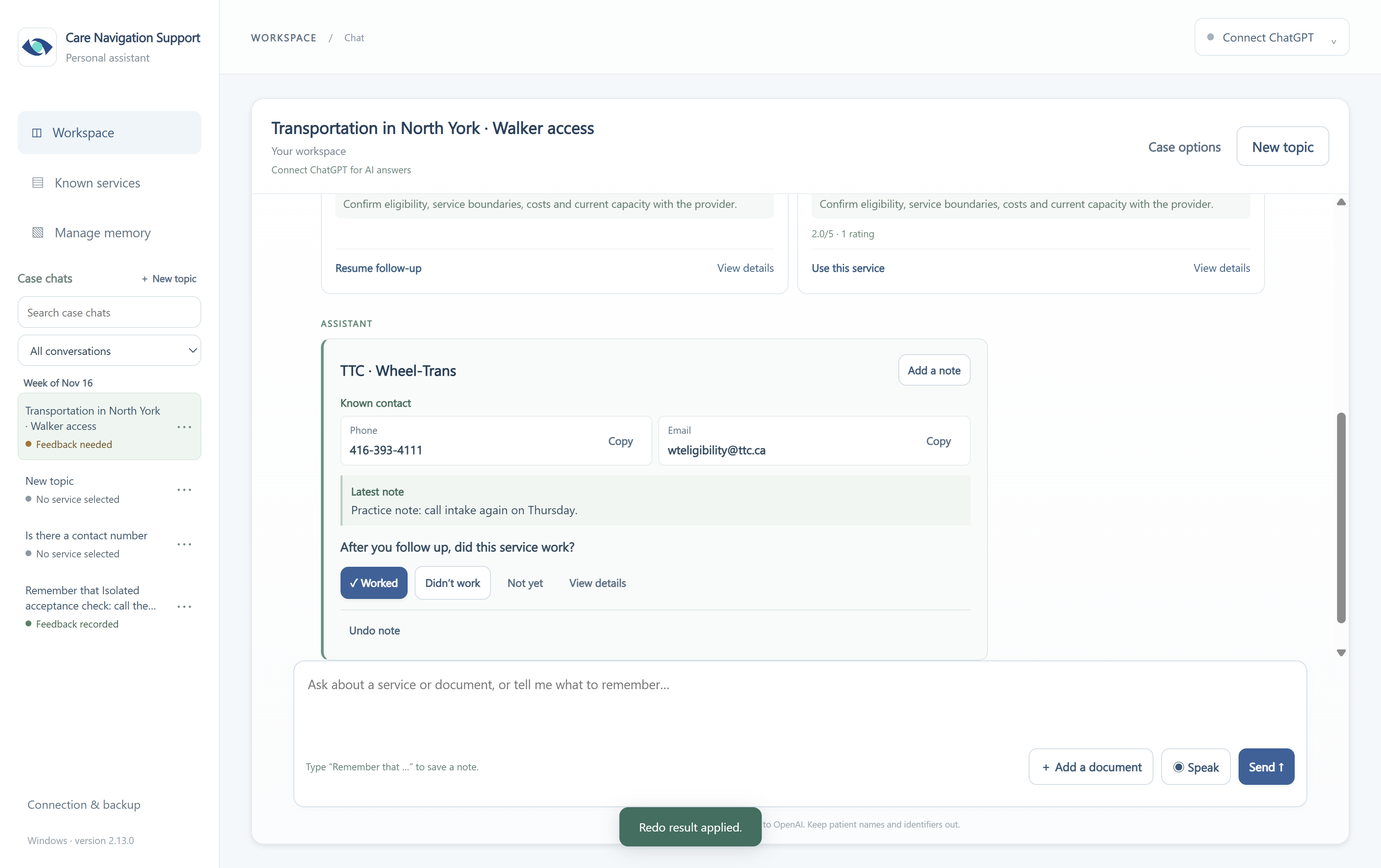
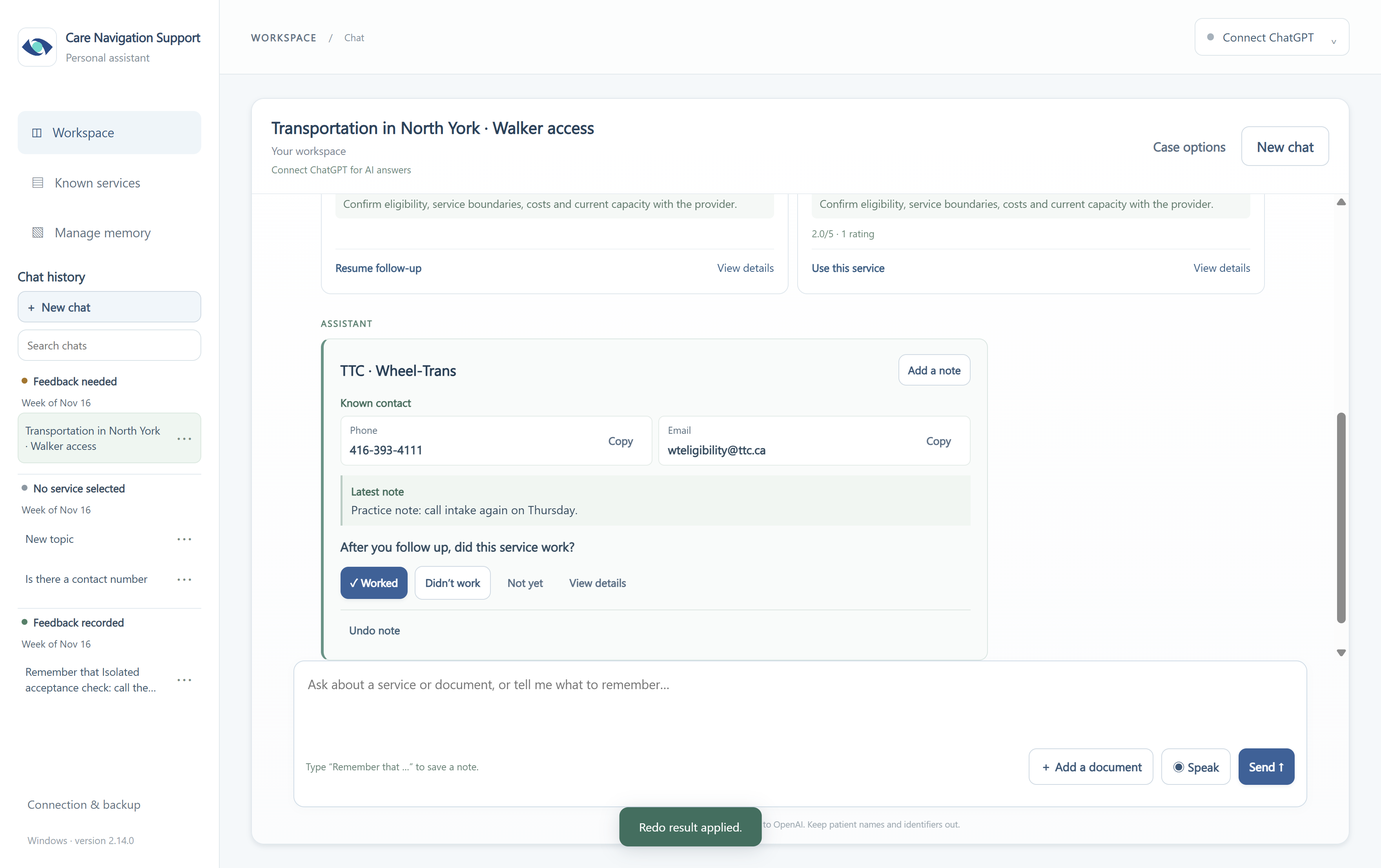
Group chat history and make completion a separate reply

Changed region(s): [[0.0, 0.3118, 0.125, 0.8107], [0.8438, 0.1559, 0.9688, 0.1871], [0.0938, 0.3118, 0.125, 0.343]]

diff --git a/ui/documents.css b/ui/documents.css
@@ -21,7 +21,7 @@
 .service-history{margin-top:0;padding-top:0;border-top:0}.history-help{font-size:11px;color:#789285;margin:8px 0 14px}.saved-status{color:#33785f;font-size:11px;margin:8px 0}.saved-status:empty{display:none}.experience-summary{display:flex;gap:7px 14px;flex-wrap:wrap;font-size:11px;color:#3d715e;margin:8px 0 12px}.experience-summary span{background:#eef7f2;border:1px solid #dcebe2;border-radius:6px;padding:5px 9px}.service-experience-preview{border-left:2px solid #9bbfae;padding:0 10px;margin-bottom:12px;color:#607d70;max-width:850px}.service-experience-preview .experience-summary{margin:0 0 5px;font-size:10px}.service-experience-preview small{display:block;font-size:11px;line-height:1.5;overflow-wrap:anywhere}.result-badge{display:inline-block;border:1px solid #cfe5d8;background:#ebf6ef;color:#31694c;font-size:11px;font-weight:650;border-radius:5px;padding:4px 8px;margin-bottom:6px}.result-badge.not_worked{border-color:#efd6d2;background:#fbf0ee;color:#9a4d42}.service-result-prompt{display:flex;align-items:center;justify-content:space-between;gap:14px;flex-wrap:wrap;background:#f3f8fc;border:1px solid #dce8ef;border-radius:9px;padding:14px;margin-top:14px}.service-result-prompt strong{font-size:13px}.service-result-prompt p{font-size:11px;color:#6c8596;margin-top:5px}.result-buttons,.result-editor-actions{display:flex;gap:8px;flex-wrap:wrap}.result-choice{font-size:11px;padding:8px 12px}#service-result-editor{border:1px solid #b9d6cb;border-radius:10px;background:#f7fbf9;padding:18px;margin-top:15px}#service-result-editor[hidden]{display:none}.result-editor-heading{margin-bottom:15px}.result-editor-heading h3{margin-bottom:5px}.result-editor-heading small{font-size:11px;color:#6c8577}.result-outcomes{border:0;padding:0;margin:0 0 18px;display:flex;flex-wrap:wrap;gap:8px}.result-outcomes legend{font-size:12px;font-weight:600;margin-bottom:9px}.result-outcomes button[aria-pressed=true]{background:#e1f1e8;border-color:#639c85;color:#245f49;box-shadow:inset 0 0 0 1px #639c85}.result-outcomes button[data-outcome=not_worked][aria-pressed=true]{background:#faeae7;border-color:#b97c73;color:#85443a;box-shadow:inset 0 0 0 1px #b97c73}.detail-body #result-note{min-height:80px}.context-main{display:flex;align-items:center;justify-content:space-between;gap:10px;width:100%}.context-chip.service-context{display:block}.context-actions{display:flex;align-items:center;gap:7px;flex-wrap:wrap;margin-top:9px}.context-actions>span{font-size:10px}.context-actions .result-choice{font-size:10px;padding:6px 9px}.floating-chat .context-actions{gap:5px;margin-top:7px}.floating-chat .context-actions>span{font-size:9px}.service-history,#service-contacts,#service-result-editor{scroll-margin-top:95px}#card-fields{margin-top:24px}#service-contacts:focus{outline:2px solid #b7d7c8;outline-offset:5px}.card-dialog .modal-footer{z-index:1}.memory-record .result-badge{margin-top:8px}
 
 /* Compact choices, private case chats, and saved-input correction controls. */
-.sidebar{min-height:0}.sidebar>.input-tools{margin:8px 0 0;padding:4px 0}.input-tools{display:flex;align-items:center;gap:5px;margin:7px 0 10px}.input-tools button{font-size:11px;padding:6px 9px}.input-tools button:disabled{opacity:.38;cursor:default}.case-sidebar{display:flex;flex-direction:column;flex:1;min-height:110px;margin:13px 0}.case-sidebar-heading{display:flex;align-items:center;justify-content:space-between;gap:3px;margin-bottom:7px}.case-sidebar h2{font-size:12px;color:#6b877c;font-weight:650}.case-sidebar-heading button{font-size:10px;padding:5px}.case-sidebar>input{font-size:11px;padding:8px 9px;min-height:32px;margin-bottom:7px}.case-list{min-height:0;overflow:auto;flex:1;scrollbar-width:thin}.case-item{display:flex;align-items:center;border-radius:7px;gap:3px;margin-bottom:3px;border:1px solid transparent}.case-item.active{background:#edf6f1;border-color:#d6e9df}.case-item>button:first-child{background:transparent;border:0;min-width:0;flex:1;text-align:left;padding:9px 7px;color:#355970}.case-item strong{font-size:11px;line-height:1.45;font-weight:550;display:-webkit-box;-webkit-line-clamp:2;-webkit-box-orient:vertical;overflow:hidden;overflow-wrap:anywhere}.case-item small{display:block;font-size:9px;color:#879a94;margin-top:4px}.case-more{flex:none;font-size:17px;padding:6px;background:transparent;border:0;color:#718b80}.case-empty{font-size:11px;color:#8a9d94;padding:8px}.case-options p{font-size:12px;line-height:1.65;color:#718b9c;margin-bottom:13px}.case-options-dialog{max-width:610px}.case-archived-banner{display:flex;align-items:center;justify-content:space-between;gap:10px;margin:0 18px 16px;padding:12px;border:1px solid #d7e5ee;border-radius:8px;background:#f4f9fc;font-size:12px}.case-archived-banner[hidden]{display:none}.chat-panel .panel-heading>div:first-child{min-width:0}.chat-panel #assistant-title{overflow-wrap:anywhere}.chat-header-actions{flex-wrap:wrap;justify-content:flex-end}.floating-chat .panel-heading{flex-wrap:wrap;gap:5px}.floating-chat #assistant-title{font-size:14px;display:-webkit-box;-webkit-line-clamp:2;-webkit-box-orient:vertical;overflow:hidden}.floating-chat .chat-header-actions button{font-size:10px;padding:5px 7px}.answer-cards{grid-template-columns:repeat(2,minmax(0,1fr));align-items:stretch;gap:9px}.answer-cards .answer-card{display:flex;flex-direction:column;align-items:stretch;justify-content:flex-start;gap:6px;margin:0;padding:12px!important;min-width:0;min-height:112px;overflow:hidden;text-align:left}.answer-card .card-kicker{font-size:9px;margin:0;white-space:nowrap;overflow:hidden;text-overflow:ellipsis}.answer-card strong{display:-webkit-box;-webkit-line-clamp:2;-webkit-box-orient:vertical;overflow:hidden;line-height:1.4;font-size:13px;margin:0}.answer-card .card-excerpt{display:-webkit-box;-webkit-line-clamp:1;-webkit-box-orient:vertical;overflow:hidden;font-size:11px;margin:0;color:#8296a3}.answer-card-bottom{display:flex;flex-direction:column;gap:4px;font-size:11px;color:#397a65;margin-top:auto;overflow-wrap:anywhere}.answer-card-bottom small{font-size:10px;color:#688d7c}.response-toggle{font-size:11px;padding:6px 2px}.earlier-messages{display:block;margin:0 auto 12px;font-size:11px}.floating-chat .answer-cards{gap:6px}.floating-chat .answer-cards .answer-card{padding:9px!important;min-height:118px}.floating-chat .answer-card strong{font-size:11px}.floating-chat .answer-card-bottom{font-size:10px}.floating-chat .answer-card .card-excerpt{font-size:10px}.memory-record-main p{display:-webkit-box;-webkit-line-clamp:3;-webkit-box-orient:vertical;overflow:hidden}
+.sidebar{min-height:0}.sidebar>.input-tools{margin:8px 0 0;padding:4px 0}.input-tools{display:flex;align-items:center;gap:5px;margin:7px 0 10px}.input-tools button{font-size:11px;padding:6px 9px}.input-tools button:disabled{opacity:.38;cursor:default}.case-item{display:flex;align-items:center;border-radius:7px;gap:3px;margin-bottom:3px;border:1px solid transparent}.case-item.active{background:#edf6f1;border-color:#d6e9df}.case-item>button:first-child{background:transparent;border:0;min-width:0;flex:1;text-align:left;padding:9px 7px;color:#355970}.case-item strong{font-size:11px;line-height:1.45;font-weight:550;display:-webkit-box;-webkit-line-clamp:2;-webkit-box-orient:vertical;overflow:hidden;overflow-wrap:anywhere}.case-more{flex:none;font-size:17px;padding:6px;background:transparent;border:0;color:#718b80}.case-empty{font-size:11px;color:#8a9d94;padding:8px}.case-options p{font-size:12px;line-height:1.65;color:#718b9c;margin-bottom:13px}.case-options-dialog{max-width:610px}.case-archived-banner{display:flex;align-items:center;justify-content:space-between;gap:10px;margin:0 18px 16px;padding:12px;border:1px solid #d7e5ee;border-radius:8px;background:#f4f9fc;font-size:12px}.case-archived-banner[hidden]{display:none}.chat-panel .panel-heading>div:first-child{min-width:0}.chat-panel #assistant-title{overflow-wrap:anywhere}.chat-header-actions{flex-wrap:wrap;justify-content:flex-end}.floating-chat .panel-heading{flex-wrap:wrap;gap:5px}.floating-chat #assistant-title{font-size:14px;display:-webkit-box;-webkit-line-clamp:2;-webkit-box-orient:vertical;overflow:hidden}.floating-chat .chat-header-actions button{font-size:10px;padding:5px 7px}.answer-cards{grid-template-columns:repeat(2,minmax(0,1fr));align-items:stretch;gap:9px}.answer-cards .answer-card{display:flex;flex-direction:column;align-items:stretch;justify-content:flex-start;gap:6px;margin:0;padding:12px!important;min-width:0;min-height:112px;overflow:hidden;text-align:left}.answer-card .card-kicker{font-size:9px;margin:0;white-space:nowrap;overflow:hidden;text-overflow:ellipsis}.answer-card strong{display:-webkit-box;-webkit-line-clamp:2;-webkit-box-orient:vertical;overflow:hidden;line-height:1.4;font-size:13px;margin:0}.answer-card .card-excerpt{display:-webkit-box;-webkit-line-clamp:1;-webkit-box-orient:vertical;overflow:hidden;font-size:11px;margin:0;color:#8296a3}.answer-card-bottom{display:flex;flex-direction:column;gap:4px;font-size:11px;color:#397a65;margin-top:auto;overflow-wrap:anywhere}.answer-card-bottom small{font-size:10px;color:#688d7c}.response-toggle{font-size:11px;padding:6px 2px}.earlier-messages{display:block;margin:0 auto 12px;font-size:11px}.floating-chat .answer-cards{gap:6px}.floating-chat .answer-cards .answer-card{padding:9px!important;min-height:118px}.floating-chat .answer-card strong{font-size:11px}.floating-chat .answer-card-bottom{font-size:10px}.floating-chat .answer-card .card-excerpt{font-size:10px}.memory-record-main p{display:-webkit-box;-webkit-line-clamp:3;-webkit-box-orient:vertical;overflow:hidden}
 
 /* Recommendations are complete cards, with their checks kept beside the provider. */
 .answer-cards{margin-top:0;grid-template-columns:repeat(2,minmax(0,1fr))}.answer-cards .answer-card{gap:7px;padding:14px!important}.answer-card .card-reason,.answer-card .card-confirm{font-size:11px;line-height:1.5;color:#476879;overflow-wrap:anywhere}.answer-card .card-reason b,.answer-card .card-confirm b{display:block;font-size:9px;letter-spacing:.2px;font-weight:650;color:#568071;margin-bottom:2px}.answer-card .card-confirm{background:#f4f8f6;border-radius:5px;padding:7px 8px;color:#587b6c}.answer-card-open{font-size:10px;color:#3c6e93;border-top:1px solid #edf2f4;padding-top:6px;margin-top:2px}.answer-summary{border:1px solid #dce7ee;border-radius:10px;padding:14px 16px;background:#fff;color:#34566d}.answer-summary+.answer-cards{margin-top:10px}.answer-error{background:#fff8f6;border-color:#ecd8d2}.answer-pending{color:#638577;background:#f6faf8;font-size:12px}.calculation-proof{border:1px solid #dce9e2;border-radius:8px}.floating-chat .answer-card .card-reason,.floating-chat .answer-card .card-confirm{font-size:10px}.floating-chat .answer-cards .answer-card{padding:10px!important}@media(min-width:1320px){.workspace-view .chat-panel:not(.floating-chat) .answer-cards{grid-template-columns:repeat(3,minmax(0,1fr))}}
@@ -151,26 +151,41 @@
 .floating-chat .followup-fields { grid-template-columns: minmax(0, 1fr); }
 .floating-chat .chat-followup { padding: 10px 11px; }
 
-.case-sidebar > select {
-  width: 100%;
+.case-sidebar {
+  display: flex;
+  flex: 1;
+  flex-direction: column;
+  min-height: 125px;
+  gap: 7px;
+  margin: 14px 0 10px;
+}
+.case-sidebar h2 { margin: 0; color: #284d65; font-size: 13px; font-weight: 700; }
+.case-sidebar .case-new {
   min-height: 32px;
-  margin-bottom: 8px;
-  padding: 6px 8px;
-  font-size: 11px;
+  padding: 6px 9px;
+  text-align: left;
+  font-size: 12px;
+  background: #eff6fa;
 }
-.case-week h3 {
-  margin: 9px 6px 4px;
-  font-size: 10px;
-  font-weight: 650;
-  color: #526a77;
-}
-.case-week:first-child h3 { margin-top: 2px; }
-.case-item small {
+.case-new span { margin-right: 3px; }
+.case-sidebar > input { min-height: 32px; padding: 7px 9px; font-size: 11px; }
+.case-list { flex: 1; min-height: 0; overflow: auto; scrollbar-width: thin; }
+.case-group { padding: 6px 0 2px; }
+.case-group + .case-group { border-top: 1px solid #e1eaf0; margin-top: 6px; }
+.case-group h3 {
   display: flex;
   align-items: center;
-  gap: 5px;
-  color: #526a77;
+  gap: 6px;
+  margin: 0 4px 5px;
+  color: #314f65;
+  font-size: 11px;
+  font-weight: 700;
+}
+.case-week h4 {
+  margin: 8px 4px 4px;
   font-size: 10px;
+  font-weight: 550;
+  color: #526a77;
 }
 .case-status-dot {
   width: 6px;
@@ -179,10 +194,8 @@
   background: #8899a3;
   border-radius: 50%;
 }
-.case-item[data-feedback="needed"] small { color: #7a4f17; }
-.case-item[data-feedback="needed"] .case-status-dot { background: #af731f; }
-.case-item[data-feedback="recorded"] small { color: #356450; }
-.case-item[data-feedback="recorded"] .case-status-dot { background: #438267; }
+.case-group[data-feedback="needed"] .case-status-dot { background: #af731f; }
+.case-group[data-feedback="recorded"] .case-status-dot { background: #438267; }
 .case-more {
   min-width: 28px;
   margin-right: 2px;
@@ -230,17 +243,16 @@
 #card-history .input-tools:not(:has(button:not([hidden]))) { display: none; }
 .latest-messages { display: block; margin: 10px auto 0; font-size: 11px; }
 .case-next-steps {
-  margin-top: 10px;
   padding: 12px;
-  border: 1px solid #d9e6ec;
+  border: 1px solid #cddfe9;
   border-radius: 10px;
-  background: #f5f9fb;
+  background: #f2f7fa;
 }
-.case-next-steps h4 { margin: 0 0 10px; color: #243f55; font-size: 14px; }
+.case-next-steps h3 { margin: 0 0 10px; color: #243f55; font-size: 14px; }
 .case-next-actions { display: grid; grid-template-columns: repeat(3,minmax(0,1fr)); gap: 7px; }
 .case-next-actions button { text-align: left; padding: 8px 9px; font-size: 11px; overflow-wrap: anywhere; }
 .case-next-actions small { display: block; margin-top: 4px; font-size: 10px; font-weight: 400; line-height: 1.4; }
-.completion-summary { display: flex; gap: 8px; flex-wrap: wrap; align-items: center; }
+.completion-summary { display: flex; gap: 5px 8px; flex-wrap: wrap; align-items: center; font-size: 11px; margin-bottom: 9px; }
 .floating-chat .case-next-actions { grid-template-columns: minmax(0,1fr); }
 @media (max-width: 1050px) {
   .case-next-actions { grid-template-columns: minmax(0,1fr); }

diff --git a/README.md b/README.md
@@ -2,24 +2,24 @@
 
 A Windows prototype that helps navigators turn spreadsheets and documents into searchable **memory cards**, ask questions in everyday language, and keep useful notes for future conversations.
 
-**Status:** version 2.13.0 prototype. The Windows document readers and saved-card workflow have been tested. The installer is unsigned; real recipient ChatGPT access and Southlake deployment approval remain checks before routine field use.
+**Status:** version 2.14.0 prototype. The Windows document readers and saved-card workflow have been tested. The installer is unsigned; real recipient ChatGPT access and Southlake deployment approval remain checks before routine field use.
 
-The app, Windows shortcut and installer are named **Care Navigation Support**. Close the previous version before running the update. Version 2.13 uses the same Windows install and data locations.
+The app, Windows shortcut and installer are named **Care Navigation Support**. Close the previous version before running the update. Version 2.14 uses the same Windows install and data locations.
 
 ## Download and start
 
-### [Download the complete handoff package](https://github.com/victor221218/southlake-care-navigation-support/releases/download/v2.13.0/Care-Navigation-Support-Handoff-2.13.0.zip)
+### [Download the complete handoff package](https://github.com/victor221218/southlake-care-navigation-support/releases/download/v2.14.0/Care-Navigation-Support-Handoff-2.14.0.zip)
 
 Everything needed to review the prototype in one download: the Windows installer, editable source files, user and developer guides, and the verification report.
 
 | What you need | Open this |
 | --- | --- |
-| **Install and try the app** | [Windows installer](https://github.com/victor221218/southlake-care-navigation-support/releases/download/v2.13.0/Care-Navigation-Support-Setup-2.13.0.exe) |
-| **Quick-start guide** | [Download the quick-start guide](https://github.com/victor221218/southlake-care-navigation-support/releases/download/v2.13.0/Windows-Quick-Start.html) or [read the full guide here](START-HERE.md) |
-| **Download all deliverables** | [Complete handoff ZIP](https://github.com/victor221218/southlake-care-navigation-support/releases/download/v2.13.0/Care-Navigation-Support-Handoff-2.13.0.zip) |
+| **Install and try the app** | [Windows installer](https://github.com/victor221218/southlake-care-navigation-support/releases/download/v2.14.0/Care-Navigation-Support-Setup-2.14.0.exe) |
+| **Quick-start guide** | [Download the quick-start guide](https://github.com/victor221218/southlake-care-navigation-support/releases/download/v2.14.0/Windows-Quick-Start.html) or [read the full guide here](START-HERE.md) |
+| **Download all deliverables** | [Complete handoff ZIP](https://github.com/victor221218/southlake-care-navigation-support/releases/download/v2.14.0/Care-Navigation-Support-Handoff-2.14.0.zip) |
 | **Read or edit the code** | Browse the folders above; [start with the source map below](#source-code-map) |
 | **Build or maintain the app** | [Windows development instructions](WINDOWS-DEVELOPMENT.md) |
-| **Review test evidence and remaining checks** | [Release page and verification files](https://github.com/victor221218/southlake-care-navigation-support/releases/tag/v2.13.0) |
+| **Review test evidence and remaining checks** | [Release page and verification files](https://github.com/victor221218/southlake-care-navigation-support/releases/tag/v2.14.0) |
 
 The public release can be downloaded without a GitHub account. Opening the installer is different from downloading source code: Use the installer to run the app or the source files for development.
 
@@ -35,7 +35,7 @@ The current deliverable is a Windows app. To connect it to ChatGPT, open the app
 
 ## Known services are ready on first launch
 
-The app opens in **Workspace**, with a full-width chat and document upload beside Speak. Each discussion keeps its own messages and draft. Choose **New topic** to start a separate conversation.
+The app opens in **Workspace**, with a full-width chat and document upload beside Speak. Each discussion keeps its own messages and draft. Choose **New chat** to start a separate conversation.
 
 Choose **Known services** to browse the 27 researched pathways as full-width horizontal rows. Category filtering and search appear above the directory; the assistant opens in a floating panel on the right. Open View details for contact details, access requirements, source links and research dates, or choose Ask assistant beneath View details to open the floating chat with that provider selected. A named person appears only when listed in the public source. Confirm eligibility, boundaries, costs and current capacity before referring.
 
@@ -59,17 +59,17 @@ Choose **View details** to compare a provider’s coverage, access requirements 
 
 ![Known contact and a saved note in the topic](docs/chat-followup.png)
 
-**Case chats** groups conversations under **Week of** labels. The latest chat activity comes first, with each week starting on Monday. Filter by **Feedback needed**, **No service selected**, or **Feedback recorded**. A selected service stays under **Feedback needed** until the result is saved.
+**Chat history** puts **New chat** and search above three groups: **Feedback needed**, **No service selected**, and **Feedback recorded**. Each group lists its chats by week, with the latest activity first. A selected service stays under **Feedback needed** until its result is saved.
 
-Choose **New topic** for a separate discussion. A detailed request gets a short title such as **Transportation in North York · Walker access**. Open **⋯ → Rename conversation** to edit the name or ask for a suggestion. Select a chat to return to its messages, selected service, and draft. Use **Earlier messages** to read older parts of the chat.
+Choose **New chat** for a separate discussion. A detailed request gets a short title such as **Transportation in North York · Walker access**. Open **⋯ → Rename conversation** to edit the name or ask for a suggestion. Select a chat to return to its messages, selected service, and draft. Use **Earlier messages** to read older parts of the chat.
 
-![Weekly case chats with feedback status](docs/case-chats.png)
+![Chat history groups and a separate end-of-chat message](docs/case-chats.png)
 
 - **⋯ → Record feedback** jumps to the latest service that still needs a result, even if newer messages follow it.
 - **⋯ → Add to memory library** keeps a useful conversation as one item. Find it under the linked organization or use **Manage memory → Saved conversations**. Open it and choose **Reopen conversation** to continue.
 - **⋯ → Delete chat history** permanently discards a practice or inaccurate conversation and its older automatic entries.
 
-When the last pending result and its notes are saved, the chat asks **What would you like to do next?** Choose **Keep chat open**, **Add to memory library**, or **Delete chat and notes**. The last option asks for confirmation and removes the conversation and its linked notes, ratings and results. Review older standalone notes in **Manage memory**. For other conversations, use **Case options → Finish conversation** to open the same choices.
+After the last pending result and any open note are saved, a separate assistant message comes into view at the end of the chat and asks **What would you like to do next?** Choose **Keep in chat history**, **Add to memory library**, or **Delete chat and notes**. The last option asks for confirmation and removes the conversation and its linked notes, ratings and results. Review older standalone notes in **Manage memory**. For other conversations, use **Case options → Finish conversation** to open the same choices.
 
 ![A saved conversation grouped under its organization](docs/case-library.png)
 
@@ -100,7 +100,7 @@ The Ask assistant entry point is in the upper-right of the Known services headin
 
 | Step | What happens |
 | --- | --- |
-| **1. Install** | Open `Care-Navigation-Support-Setup-2.13.0.exe`, choose Install, then Finish. Later, open Care Navigation Support from the desktop or Start menu. |
+| **1. Install** | Open `Care-Navigation-Support-Setup-2.14.0.exe`, choose Install, then Finish. Later, open Care Navigation Support from the desktop or Start menu. |
 | **2. Connect** | Choose Continue with ChatGPT. Sign in on OpenAI's page using your own ChatGPT account and review the requested permissions. Return to the app. |
 | **3. Add a document** | Choose Add a document beside Speak at the bottom of the chat, select a file, review its preview and warnings, then Save cards. |
 | **4. Ask a question** | Type a question, or Speak, Stop listening, review the transcript, and Send. Answers are text, with clickable source cards where relevant. |
@@ -118,8 +118,8 @@ Choose a card to see the original fields, worksheet/row or page reference, any c
 ## How memory works
 
 - Imported information is stored as cards separately from the chat.
-- **New topic** starts another chat with its own selected card and draft. Earlier cases stay in the sidebar.
-- Ordinary chat turns stay together in Case chats. Type **Remember that …** to save a single note. When a card is selected, the note goes on that card.
+- **New chat** starts another chat with its own selected card and draft. Earlier cases stay in the sidebar.
+- Ordinary chat turns stay together in Chat history. Type **Remember that …** to save a single note. When a card is selected, the note goes on that card.
 - With a selected card, messages become notes on that card. Otherwise, they become personal message cards.
 - Card notes save automatically when you pause. They can be edited or deleted using the controls on that card.
 - Revised spreadsheets can update matching cards using unique IDs or names, keeping attached notes when rows move. Ambiguous matches require a separate version. Previous rows remain accessible through Manage files.
@@ -154,12 +154,12 @@ Official references: [Sign in with ChatGPT](https://developers.openai.com/siwc/q
 
 ## Files in the complete handoff ZIP
 
-Extract the ZIP first, then open **START-HERE.html** inside the Care-Navigation-Support-Windows-2.13 folder.
+Extract the ZIP first, then open **START-HERE.html** inside the Care-Navigation-Support-Windows-2.14 folder.
 
 | File or folder | What it is for |
 | --- | --- |
 | `START-HERE.html` | Links to the installer, guides and source overview within the extracted package |
-| `Care-Navigation-Support-Setup-2.13.0.exe` | The normal per-user Windows installer; includes the app runtime, document readers and English speech model |
+| `Care-Navigation-Support-Setup-2.14.0.exe` | The normal per-user Windows installer; includes the app runtime, document readers and English speech model |
 | `source/` | The original editable source files, tests, dependency versions, build scripts and required source assets |
 | `documentation/Windows-Quick-Start.html` | Quick-start instructions |
 | `documentation/Full-Guide.md` | Detailed usage, file limits, memory and backup instructions |

diff --git a/WINDOWS-DEVELOPMENT.md b/WINDOWS-DEVELOPMENT.md
@@ -1,4 +1,4 @@
-# Windows development — version 2.13.0
+# Windows development — version 2.14.0
 
 These steps cover development and installer builds. End users use the finished Windows installer and need none of these tools.
 
@@ -41,7 +41,7 @@ python scripts/prepare-windows.py
 & 'C:/build-tools/Inno Setup/ISCC.exe' scripts/windows-installer.iss
 ```
 
-Adjust only the compiler path to its approved installation. The result is `release/setup/Care-Navigation-Support-Setup-2.13.0.exe`. Version and app identity are defined in package.json and scripts/windows-installer.iss. Keep them consistent. The hoisted pinned dependencies provide the Windows resource editor used during staging. `assets/care-navigation-logo.png` is the supplied artwork and `assets/hive.ico` contains the Windows icon sizes. It installs per Windows user and retains separate app-data files on upgrade/uninstall.
+Adjust only the compiler path to its approved installation. The result is `release/setup/Care-Navigation-Support-Setup-2.14.0.exe`. Version and app identity are defined in package.json and scripts/windows-installer.iss. Keep them consistent. The hoisted pinned dependencies provide the Windows resource editor used during staging. `assets/care-navigation-logo.png` is the supplied artwork and `assets/hive.ico` contains the Windows icon sizes. It installs per Windows user and retains separate app-data files on upgrade/uninstall.
 
 The packager collects dependency license notices. Keep the bundled Vosk model source manifest, Apache license and notices with the assets. The OpenAI demonstration DevKit is not bundled; this app implements the published protocol independently.
 
@@ -52,7 +52,7 @@ After build/package and runtime configuration:
 ```powershell
 node scripts/prepare-document-smoke.mjs
 python scripts/prepare-windows.py --document-smoke
-& '.runtime/document-smoke-2.13.0/Care Navigation Support Test.exe'
+& '.runtime/document-smoke-2.14.0/Care Navigation Support Test.exe'
 ```
 
 Run this from a normal Windows desktop session. It uses its own isolated test profile and fictional files, exercises the shipping main/renderer/IPC, checks all three bundled Office/PDF readers, and relaunches to verify pending notes are saved before closing. It writes `document-smoke-result.json` in its test directory. It does not sign in, perform live AI requests, read existing user data or open the microphone. The test preload/bootstrap and fixtures are **not** part of the shipping installer.
@@ -60,7 +60,7 @@ Run this from a normal Windows desktop session. It uses its own isolated test pr
 For an extraction-only installer check, use a fresh test directory:
 
 ```powershell
-& 'release/setup/Care-Navigation-Support-Setup-2.13.0.exe' /PORTABLE=1 /DIR="C:/build-tests/care-navigation-support-2.13.0" /VERYSILENT /SUPPRESSMSGBOXES /NORESTART
+& 'release/setup/Care-Navigation-Support-Setup-2.14.0.exe' /PORTABLE=1 /DIR="C:/build-tests/care-navigation-support-2.14.0" /VERYSILENT /SUPPRESSMSGBOXES /NORESTART
 ```
 
 This copies application files without normal shortcuts/uninstall registration. It does not prove the UI, account connection or AI work. Do not disable Chromium sandboxing or bypass OS protection to make a build launch.
@@ -75,7 +75,7 @@ Legacy service-navigation and Mac development notes are retained in BUILDING.md;
 
 ## Service directory and app identity
 
-`src/documents/services.mjs` builds the 27 public cards from the earlier researched catalog, with source dates and targeted contact updates. Initialization uses stable source keys, avoids duplicate imports, and retains notes when the public snapshot is updated. `src/app-identity.mjs` preserves the legacy Windows data folder independently of the displayed product name. Production runtime files stage into `release/windows-app-2.13.0`. Keep the Inno Setup application ID unchanged when publishing upgrades.
+`src/documents/services.mjs` builds the 27 public cards from the earlier researched catalog, with source dates and targeted contact updates. Initialization uses stable source keys, avoids duplicate imports, and retains notes when the public snapshot is updated. `src/app-identity.mjs` preserves the legacy Windows data folder independently of the displayed product name. Production runtime files stage into `release/windows-app-2.14.0`. Keep the Inno Setup application ID unchanged when publishing upgrades.
 
 ## Version 2.7 interface checks
 
@@ -132,8 +132,8 @@ The app stores normal chat turns in the case transcript. An explicit note reques
 
 The memory library groups relevant items by service provider, explicit organization field, or imported file. Saved conversations use selected card references from the transcript. Queries page organization groups and their history independently. Context-card references are remapped during backup restore. The storage schema stays compatible with earlier profiles.
 
-## Service selection and completion in 2.13
+## Chat history and completion in 2.14
 
-Selections from recommendations and Known services use the same follow-up flow. The completion prompt looks across the entire case for saved results and open note drafts. Keep chat open dismisses the prompt for the saved result. Finish conversation opens the prompt on demand.
+Selections from recommendations and Known services use the same follow-up flow. Chat history groups active cases by status and week. Search matches titles across the active case list. The completion message looks across the whole case for saved results and open note drafts. The chat renders it as its own final message and moves focus there after saving. Keep in chat history dismisses the prompt for the saved result. Finish conversation opens the prompt on demand.
 
 Migration 0006 distinguishes explicit feedback links from older automatic entries in personal case memory. The full-delete action removes referenced feedback and its correction history in one transaction. Explicit feedback links carry through backups. Older results and in-chat notes with existing follow-up references are also resolved when deleting. An older standalone note without a case link is managed in the library.

diff --git a/START-HERE.md b/START-HERE.md
@@ -1,12 +1,12 @@
-# Care Navigation Support — Windows 2.13 prototype
+# Care Navigation Support — Windows 2.14 prototype
 
-Open **Care-Navigation-Support-Setup-2.13.0.exe**, choose **Install**, then **Finish**. Open **Care Navigation Support** from your desktop or Start menu afterwards. No ZIP extraction, coding tools, terminal commands or plugin setup are needed.
+Open **Care-Navigation-Support-Setup-2.14.0.exe**, choose **Install**, then **Finish**. Open **Care Navigation Support** from your desktop or Start menu afterwards. No ZIP extraction, coding tools, terminal commands or plugin setup are needed.
 
 This installer supports Windows 10 version 2004 or later and Windows 11 on 64-bit Intel/AMD computers. It installs for the current Windows user. The pilot is unsigned. If Windows or your organization blocks it, ask your administrator to approve distribution. A signed publisher release is required for a routine Southlake rollout.
 
 ## Start in Workspace
 
-Workspace opens as a full-width chat, with Add a document beside Speak. Case chats keeps your conversations and drafts. Use **Manage memory** for information you choose to keep for future reference.
+Workspace opens as a full-width chat, with Add a document beside Speak. **Chat history** keeps your conversations and drafts. Use **Manage memory** for information you choose to keep for future reference.
 
 ## Known services are ready to browse
 
@@ -26,7 +26,7 @@ Ordinary messages stay together in the conversation. To keep a note, type **Reme
 
 **Editing and deleting memory:** choose Edit beside a saved message or feedback entry, change its text and save. Choose Delete to remove it. Document cards offer Add correction so the original source remains intact. Deleting feedback leaves its source service/document card in place. Completed changes affect subsequent AI answers; already displayed answers remain a record of that earlier conversation.
 
-**New topic** starts a separate discussion and selected-card context. Earlier case chats, drafts and saved records remain available. Conversations persist in this app; this does not train the AI model or read your ChatGPT Memory.
+**New chat** starts a separate discussion and selected-card context. Earlier case chats, drafts and saved records remain available. Conversations persist in this app; this does not train the AI model or read your ChatGPT Memory.
 
 ## Which model is answering?
 
@@ -74,8 +74,8 @@ Close the current app and open the new installer. After installation, open **Car
 
 ## Keep a case conversation
 
-1. Choose **New topic** for a separate conversation. A detailed ride request can become **Transportation in North York · Walker access**.
-2. Find it in **Case chats**, where **Week of** groups show the newest activity first. The filter lets you see which chats need feedback, have a recorded result, or have no service selected.
+1. Choose **New chat** for a separate conversation. A detailed ride request can become **Transportation in North York · Walker access**.
+2. Use the search field under **New chat** to find a conversation by title. **Chat history** shows each conversation under **Feedback needed**, **No service selected**, or **Feedback recorded**, with the latest activity first within each group.
 3. Open **⋯ → Record feedback** to jump to a pending result. Open **⋯ → Rename conversation** to type a new title or choose **Suggest a title**.
 4. Click a conversation title to return to its messages and draft. Use **Earlier messages** to read older parts of the chat.
 
@@ -89,9 +89,9 @@ Choose **⋯ → Delete chat history** to discard a practice or inaccurate chat 
 
 ### When you’re finished
 
-Once the last pending service result is saved, the chat asks **What would you like to do next?**
+After the last pending result and any open note are saved, a separate assistant message comes into view at the end of the chat. It asks **What would you like to do next?**
 
-- **Keep chat open** returns you to the conversation.
+- **Keep in chat history** leaves the chat in the sidebar.
 - **Add to memory library** files the entire conversation as one item you can open later.
 - **Delete chat and notes** permanently removes the conversation and feedback linked to it after you confirm. This includes the notes, results and ratings saved from that chat. Use Manage memory for any older standalone notes.
 
@@ -111,7 +111,7 @@ Look beneath the service follow-up for **Undo note**, **Undo result**, or **Undo
 2. Click a recommendation or **Use this service**. The listed phone and email appear under **Known contact** at the top. Choose **Add a note** and **Save note** to record information before or after a result. The note also saves to the provider card. **View details** opens the full card.
 3. After trying the service, choose **Worked** or **Didn’t work**. Use **Not yet** to return later.
 4. Add an optional note or rating and choose **Save result**. A blank note and rating are fine. **Finish later** keeps a draft with the topic. Saved feedback is also available on the service card.
-5. If it didn’t work, choose **See other options** to return to the choices. Choose **New topic** when the subject changes. Reopen earlier chats from the sidebar.
+5. If it didn’t work, choose **See other options** to return to the choices. Choose **New chat** when the subject changes. Reopen earlier chats from the sidebar.
 
 ## Record a result from Known services
 

diff --git a/SHARING.md b/SHARING.md
@@ -1,6 +1,6 @@
 # Share the Windows app
 
-Share the [GitHub download page](https://github.com/victor221218/southlake-care-navigation-support/releases/tag/v2.13.0). Users choose **Care-Navigation-Support-Setup-2.13.0.exe** and open it; there is no ZIP to extract to install the app. The same page offers the quick-start guide and a complete source/handoff ZIP for maintainers.
+Share the [GitHub download page](https://github.com/victor221218/southlake-care-navigation-support/releases/tag/v2.14.0). Users choose **Care-Navigation-Support-Setup-2.14.0.exe** and open it; there is no ZIP to extract to install the app. The same page offers the quick-start guide and a complete source/handoff ZIP for maintainers.
 
 A C: drive link works on this computer only. To send a download link, upload the installer and share that actual file page. The public GitHub release is verified separately after upload.
 
@@ -34,13 +34,13 @@ python scripts/prepare-windows.py
 
 The document tests exercise the built background reader, so build first. The Windows staging script expects the matching official Electron runtime manifest/cache; a new build machine must supply that runtime and Inno Setup. Third-party notices are in app.asar. The installer uses the same app ID and per-user directory, preserving user data on upgrade and uninstall. Never distribute developer QA stages, test profiles or credentials.
 
-## Version 2.13 upgrade
+## Version 2.14 upgrade
 
 The Windows app and shortcuts use the name Care Navigation Support and the supplied logo. The installer keeps the existing installation ID and the Windows data location `%APPDATA%\Southlake Hive` to retain saved accounts, documents and notes. Close the previous app before updating. Public starting cards are initialized separately in each account and do not transfer anyone’s comments to another account. No automatic updater is included.
 
-## Case chats and memory in this release
+## Chat history and memory in this release
 
-Case chats appear by week with feedback status. Service previews show source details and recorded history. Once a service is chosen, its contacts and feedback controls appear in chat. The completion prompt offers Keep chat open, Add to memory library, and Delete chat and notes. The last choice confirms permanent deletion of that chat and its linked feedback.
+Chat history shows New chat and search above three status groups, with chats grouped by week. Service previews show source details and recorded history. Once a service is chosen, its contacts and feedback controls appear in chat. After the last pending result is saved, a separate assistant message offers Keep in chat history, Add to memory library, and Delete chat and notes. The last choice confirms permanent deletion of that chat and its linked feedback.
 
 ## Default pages and memory controls
 

diff --git a/RELEASE-NOTES.md b/RELEASE-NOTES.md
@@ -1,8 +1,6 @@
-# Care Navigation Support 2.13.0
+# Care Navigation Support 2.14.0
 
-- **View details** shows the information needed to compare services. Choose **Use this service** to get its contact details and follow-up question in chat.
-- After the final pending service result, the chat offers **Keep chat open**, **Add to memory library**, and **Delete chat and notes**. Use **Case options → Finish conversation** to open the same choices for other chats.
-- **Delete chat and notes** asks for confirmation before removing the conversation and its linked notes, ratings and outcomes.
-- Close the previous app and open **Care-Navigation-Support-Setup-2.13.0.exe** to update.
-
-Windows checks cover selection, in-chat feedback, the three completion choices, and deletion scoped to the conversation. Backup checks cover the links used to identify that feedback.
+- **Chat history** places **New chat** above search. Chats appear under **Feedback needed**, **No service selected**, or **Feedback recorded**, with week labels inside each group.
+- After the final pending result and any open note are saved, the chat brings a separate **What would you like to do next?** message into view.
+- Choose **Keep in chat history**, **Add to memory library**, or **Delete chat and notes**. Deletion asks for confirmation.
+- Close the previous app and open **Care-Navigation-Support-Setup-2.14.0.exe** to update.
